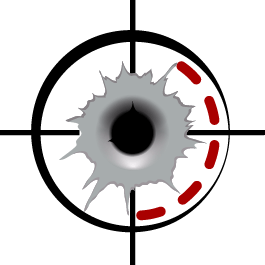
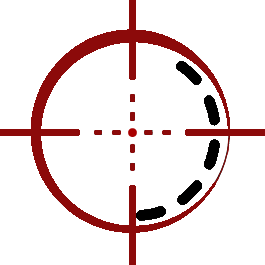
Added Always-On tracking functionality

Changed region(s): [[0.0, 0.0, 1.0, 1.0]]

diff --git a/assets/js/classes.js b/assets/js/classes.js
@@ -85,6 +85,7 @@ class Duck {
 class Bullet {
     constructor(container, useShot1 = true) {
         this.container = container;
+        this.useShot1 = useShot1;
         this.element = document.createElement('img');
         this.element.src = useShot1 ? 'assets/images/shot1.png' : 'assets/images/shot2.png';
         this.element.style.position = 'absolute';
@@ -92,24 +93,31 @@ class Bullet {
         this.element.style.width = '50px';
         this.element.style.transition = 'opacity 0.5s ease';
         container.appendChild(this.element);
+        this.resetTimeout = null;
     }
 
-    show(x, y) {
+    show(x, y, shoot = false) {
+        clearTimeout(this.resetTimeout);
         this.element.style.left = `${x - 25}px`;
         this.element.style.top = `${y - 25}px`;
         this.element.style.display = 'block';
         this.element.style.opacity = '1';
-        
-        const shotSound = document.getElementById('shot-sound');
-        shotSound.currentTime = 0;
-        shotSound.play();
-        
+        if (shoot) {
+            this.element.src = this.useShot1 ? 'assets/images/shot1Hole.png' : 'assets/images/shot2Hole.png';
+            const shotSound = document.getElementById('shot-sound');
+            shotSound.currentTime = 0;
+            shotSound.play();
+            setTimeout(() => {
+                this.element.style.opacity = '0';
+                setTimeout(() => {
+                    this.element.style.display = 'none';
+                }, 500);
+            }, 500);
+            this.element.src = this.useShot1 ? 'assets/images/shot1.png' : 'assets/images/shot2.png';
+        }
         setTimeout(() => {
             this.element.style.opacity = '0';
-            setTimeout(() => {
-                this.element.style.display = 'none';
-            }, 500);
-        }, 500);
+        }, 1000);
     }
 }
 
